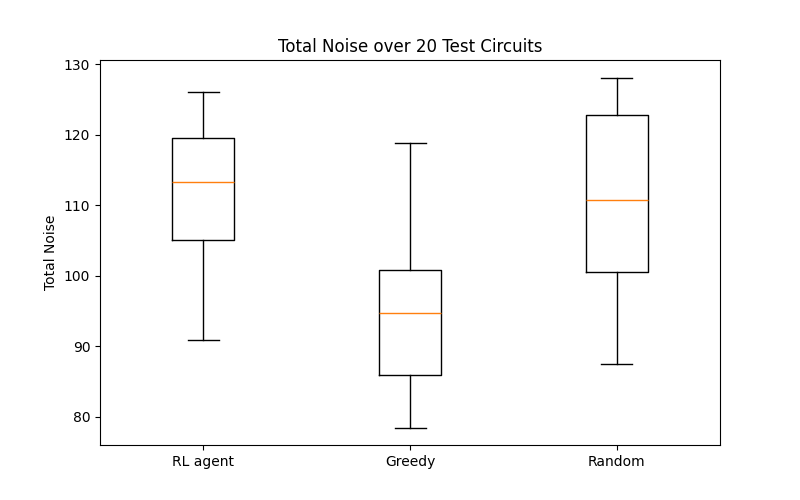
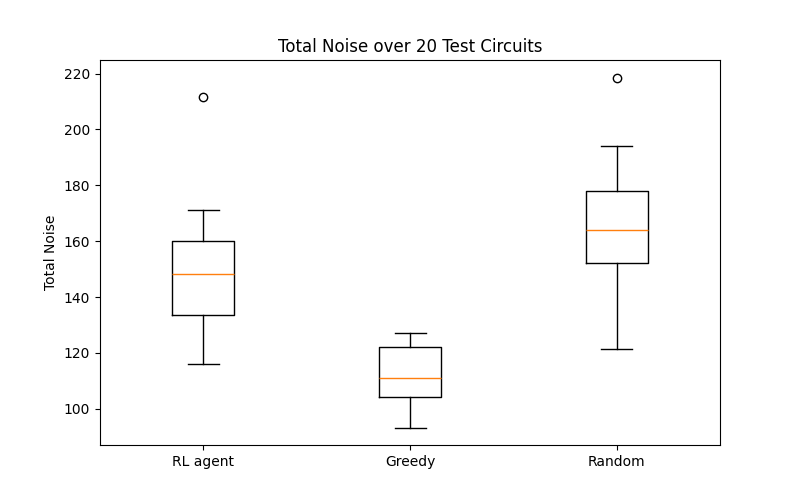
layer splitting to avoid constraint violation

diff --git a/src/qubit_env.py b/src/qubit_env.py
@@ -71,7 +71,38 @@ class QubitPlacementEnv(gym.Env):
         self.current_layer = 0
         self.qubit_locations = None  # 0 = storage, 1 = compute
         self.total_noise = 0.0
+
+
+
+    def _decompose_layers(self, circuit_data):
+        """
+        Decompose layers with >compute_capacity qubits into sub-layers.
         
+        Args:
+            circuit_data: Dict with 'layers' key
+            
+        Returns:
+            Modified circuit_data with decomposed layers
+        """
+        new_layers = []
+        
+        for layer in circuit_data['layers']:
+            if len(layer) <= self.compute_capacity:
+                # Layer fits - keep as is
+                new_layers.append(layer)
+            else:
+                # Layer too big - split into chunks of size compute_capacity
+                for i in range(0, len(layer), self.compute_capacity):
+                    sub_layer = layer[i:i + self.compute_capacity]
+                    new_layers.append(sub_layer)
+        
+        # Update circuit data
+        circuit_data['layers'] = new_layers
+        circuit_data['n_layers'] = len(new_layers)
+        
+        return circuit_data
+
+
     def reset(self, seed=None, options=None):
         """
         Reset environment with a new random circuit.
@@ -83,12 +114,15 @@ class QubitPlacementEnv(gym.Env):
         super().reset(seed=seed)
         
         # Generate new random circuit
-        self.circuit_data = generate_layered_circuit(
+        circuit_data = generate_layered_circuit(
             n_qubits=self.n_qubits,
             depth=self.circuit_depth,
             gate_density=self.gate_density,
             seed=seed
         )
+
+        # Decompose layers (preprocessing)
+        self.circuit_data = self._decompose_layers(circuit_data)
         
         # Initialize all qubits in storage (conservative start)
         self.qubit_locations = np.zeros(self.n_qubits, dtype=np.int32)
@@ -103,6 +137,7 @@ class QubitPlacementEnv(gym.Env):
         
         return obs, info
     
+
     def _get_observation(self):
         """
         Construct current state observation.
@@ -130,61 +165,34 @@ class QubitPlacementEnv(gym.Env):
 
     def _project_action(self, action):
         """
-        Project agent's action to nearest valid action that satisfies constraints.
-        
-        This enforces:
-        1. Compute capacity limit
-        2. All qubits with gates in current layer must be in compute
-        
-        Args:
-            action: Binary array (n_qubits,) where 1=move, 0=stay
-            
-        Returns:
-            Corrected action that satisfies all constraints
+        Simplified masking (sub-layering handles capacity).
+        Only ensures active qubits are in compute.
         """
         action = np.array(action, dtype=np.int32)
         
-        # Apply agent's desired movements
+        # Apply desired movements
         new_locations = self.qubit_locations.copy()
         for qubit_idx in range(self.n_qubits):
-            if action[qubit_idx] == 1:  # Agent wants to move this qubit
+            if action[qubit_idx] == 1:
                 new_locations[qubit_idx] = 1 - self.qubit_locations[qubit_idx]
         
-        # Get qubits that need gates this layer
+        # Get active qubits for current layer
         active_qubits = []
         if self.current_layer < len(self.circuit_data['layers']):
             active_qubits = self.circuit_data['layers'][self.current_layer]
         
-        # CONSTRAINT 1: Ensure all active qubits are in compute
+        # Force active qubits to compute
         for qubit_idx in active_qubits:
-            new_locations[qubit_idx] = 1  # Force to compute
+            new_locations[qubit_idx] = 1
         
-        # CONSTRAINT 2: Respect compute capacity
-        compute_indices = np.where(new_locations == 1)[0]
-        
-        if len(compute_indices) > self.compute_capacity:
-            # Too many qubits in compute - need to move some to storage
-            # Priority: keep active qubits, move idle qubits
-            
-            # Separate into priority (active) and non-priority (idle)
-            priority = [q for q in compute_indices if q in active_qubits]
-            non_priority = [q for q in compute_indices if q not in active_qubits]
-            
-            # Move non-priority qubits to storage until capacity satisfied
-            qubits_to_move = len(compute_indices) - self.compute_capacity
-            for qubit_idx in non_priority:
-                if qubits_to_move <= 0:
-                    break
-                new_locations[qubit_idx] = 0  # Move to storage
-                qubits_to_move -= 1
-        
-        # Reconstruct action based on corrected locations
+        # Reconstruct action
         corrected_action = np.zeros(self.n_qubits, dtype=np.int32)
         for qubit_idx in range(self.n_qubits):
             if new_locations[qubit_idx] != self.qubit_locations[qubit_idx]:
                 corrected_action[qubit_idx] = 1
         
         return corrected_action
+
 
 
     def _calculate_noise(self, action):
